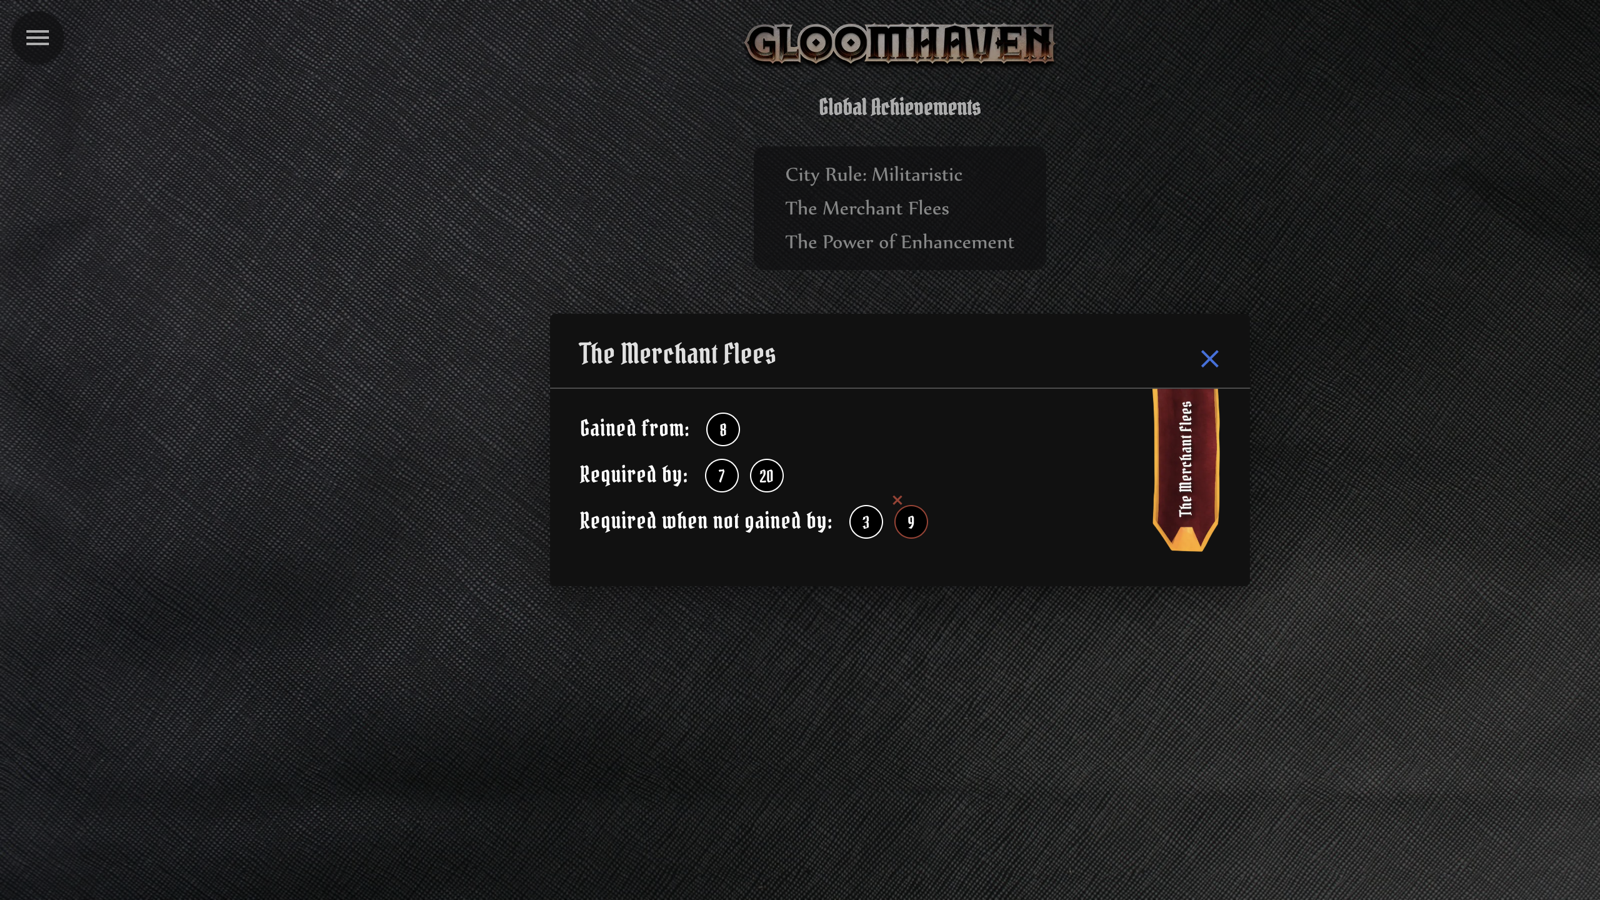
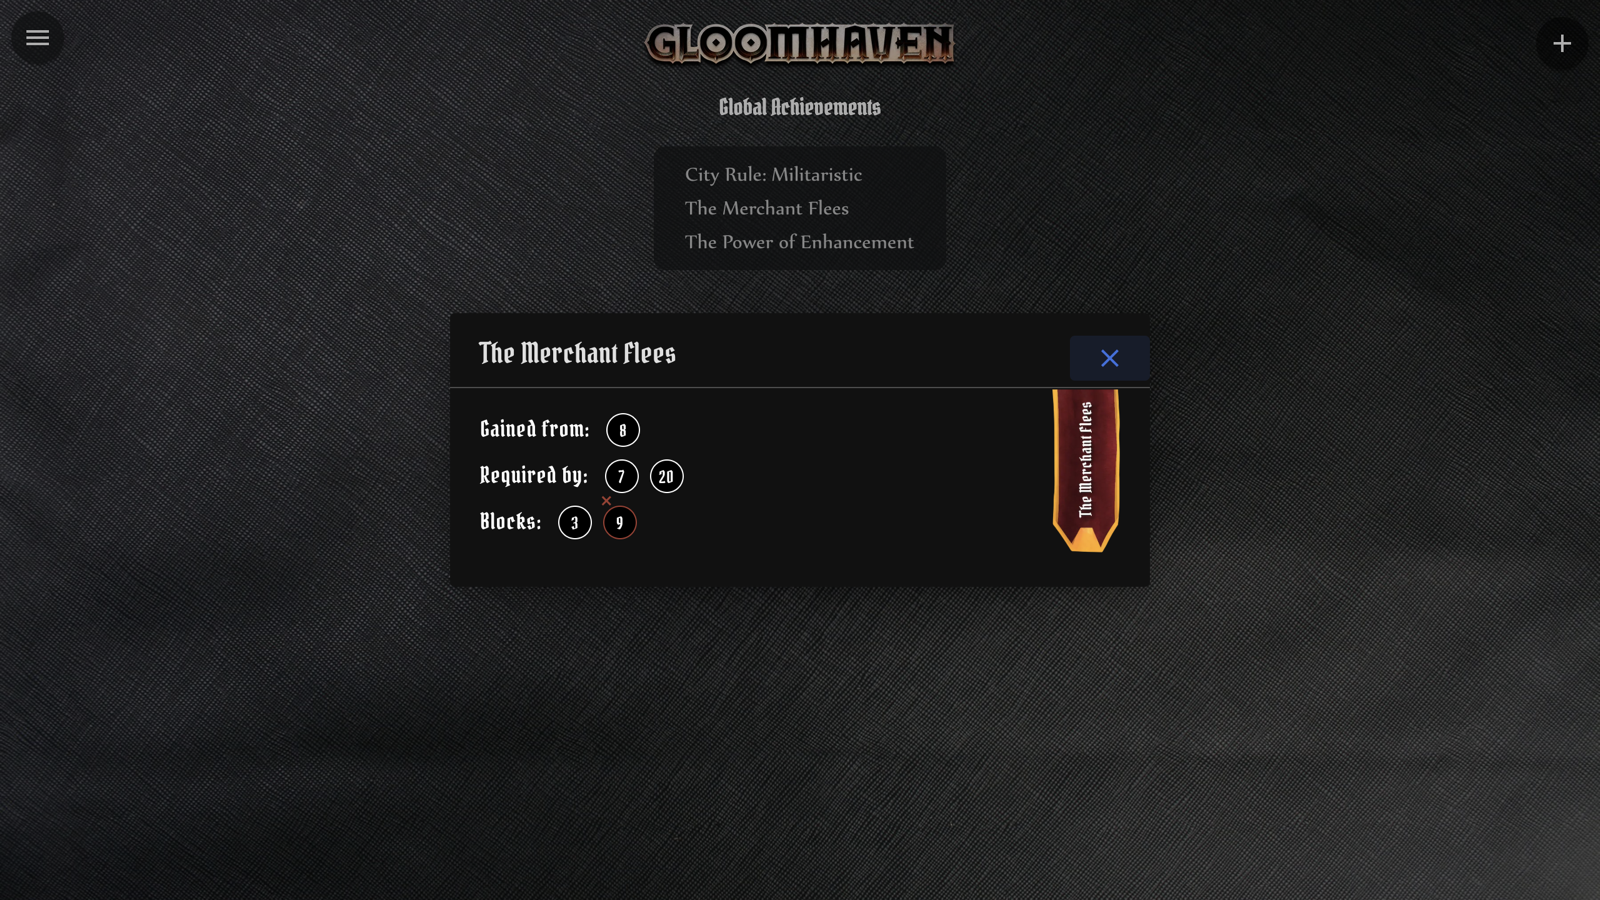
Update screenshots for PR 372

diff --git a/pr-372/captions.md b/pr-372/captions.md
@@ -1,1 +1,1 @@
-achievement: GH global achievement 'The Merchant Flees' modal (achievements page, state with scenario 8 completed). Before: one mixed 'Required by' list (3 7 9 20). After: 'Required by' (7, 20) and a separate 'Required when not gained by' (3, 9).
+achievement: GH global achievement 'The Merchant Flees' modal (achievements page, state with scenario 8 completed). Before: one mixed 'Required by' list (3 7 9 20). After: 'Required by' (7, 20) and a separate 'Blocks' (3, 9).
